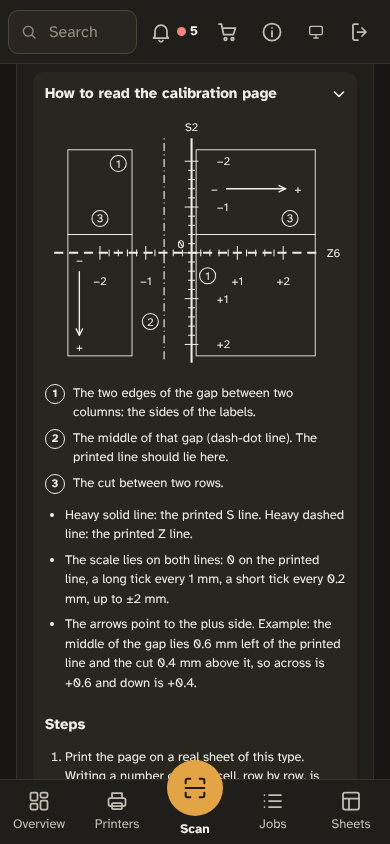
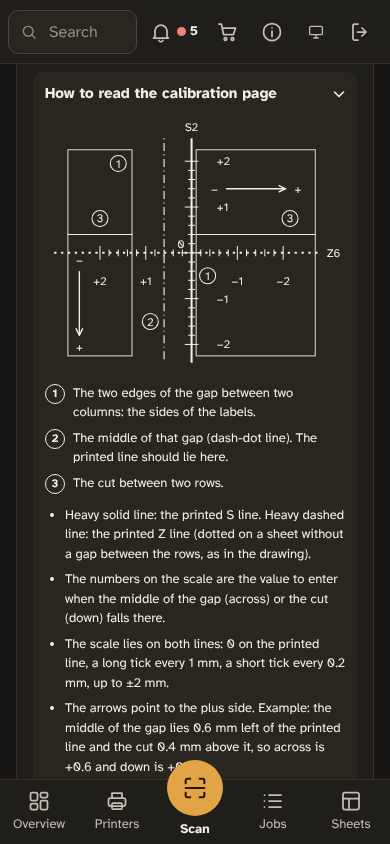
fix(calibration): the reading guide's scale shows the value to enter
The scale labels now show the value to enter (printed = nominal + reading in
fit.py): left of 0 and above 0 are plus. The Z line is dotted like the printed
page of a sheet without a row gap, the steps follow what the page offers for
two-column or two-row types, and the unused id is gone.

Refs #337

Changed region(s): [[0.1231, 0.6161, 0.8923, 0.9242]]

diff --git a/frontend/src/features/calibration/guide/ReadingGuide.test.tsx b/frontend/src/features/calibration/guide/ReadingGuide.test.tsx
@@ -7,6 +7,7 @@ import userEvent from "@testing-library/user-event";
 import { beforeAll, describe, expect, it } from "vitest";
 import { i18n, initI18n } from "../../../i18n";
 import { GEOMETRY_L4736 } from "../../test-api";
+import { CrossingFigure } from "./CrossingFigure";
 import { ReadingGuide } from "./ReadingGuide";
 
 const TYPE = { geometry: { ...GEOMETRY_L4736, cols: 4, rows: 12 }, label: "Avery L4736REV (4736)" };
@@ -126,3 +127,67 @@ describe("the reading guide", () => {
     for (const id of figureIds) expect(id).toMatch(/^[A-Za-z0-9_-]+$/);
   });
 });
+
+// The scale labels are the value to enter, not the position on the scale. The fit takes printed = nominal +
+// reading (backend/app/calibration/fit.py), so a reading is positive when the ink lies right of the gap
+// middle / below the cut, i.e. when the gap middle lies LEFT of / the cut ABOVE the printed line, which is
+// the centre of the scale at (120, 100), 40 units per mm.
+describe("the crossing figure's scale labels are the value to enter", () => {
+  const num = (text: string) => Number(text.replace("−", "-"));
+  const labels = (container: Element) => [...container.querySelectorAll("text")].map((t) => ({ text: t.textContent ?? "", x: Number(t.getAttribute("x")), y: Number(t.getAttribute("y")) }));
+
+  it("the figure's label at the gap middle is the value to enter", () => {
+    const { container } = render(<CrossingFigure />);
+    const gapMiddleX = Number(container.querySelector('line[stroke-dasharray="1 3 7 3"]')!.getAttribute("x1"));
+    const cutY = Number(container.querySelectorAll("rect")[0]!.getAttribute("y")) + Number(container.querySelectorAll("rect")[0]!.getAttribute("height"));
+    // The example of the legend: across +0.6, down +0.4.
+    expect((120 - gapMiddleX) / 40).toBeCloseTo(0.6);
+    expect((100 - cutY) / 40).toBeCloseTo(0.4);
+    // The across scale labels sit under the Z line (y 128); the label nearest the gap middle is +1, on the left.
+    const across = labels(container).filter((l) => l.y === 128);
+    const nearest = across.reduce((a, b) => (Math.abs(a.x - gapMiddleX) < Math.abs(b.x - gapMiddleX) ? a : b));
+    expect(nearest.text).toBe("+1");
+    expect(nearest.x).toBeLessThan(120);
+  });
+
+  it("a label left of 0 is positive and one right of 0 negative; above 0 positive, below negative", () => {
+    const { container } = render(<CrossingFigure />);
+    const all = labels(container);
+    const across = all.filter((l) => l.y === 128);
+    const down = all.filter((l) => l.x === 142 && /^[+−][12]$/.test(l.text));
+    expect(across).toHaveLength(4);
+    expect(down).toHaveLength(4);
+    // value to enter = - position on the scale (the position is the offset of the gap middle from the printed line).
+    for (const l of across) expect(num(l.text)).toBe(-(l.x - 120) / 40);
+    for (const l of down) expect(num(l.text)).toBe(-(l.y - 3.5 - 100) / 40);
+  });
+
+  it("the legend says the numbers are the value to enter", async () => {
+    show();
+    await open();
+    expect(screen.getByText(/The numbers on the scale are the value to enter/)).toBeVisible();
+  });
+});
+
+describe("the guide follows what the page offers", () => {
+  it("on a 4 × 12 type: five crossings and the fit step", async () => {
+    show();
+    await open();
+    expect(screen.getByText(/Read at least the four outer crossings and the one in the centre/)).toBeInTheDocument();
+    expect(screen.getByText(/press Fit/)).toBeInTheDocument();
+    expect(screen.queryByText(/cannot be fitted/)).toBeNull();
+  });
+
+  it.each([
+    ["2 columns", 2, 12],
+    ["2 rows", 4, 2],
+  ])("on a type with %s: no Fit step, the values are entered directly", async (_name, cols, rows) => {
+    show({ type: { geometry: { ...GEOMETRY_L4736, cols, rows }, label: "Avery L4736REV (4736)" } });
+    await open();
+    expect(screen.queryByText(/four outer crossings and the one in the centre/)).toBeNull();
+    expect(screen.queryByText(/press Fit/)).toBeNull();
+    expect(screen.getByText(/Read the crossings marked in the drawing/)).toBeInTheDocument();
+    expect(screen.getByText(/all crossings lie on one line, so the readings cannot be fitted/)).toBeInTheDocument();
+  });
+});
+

diff --git a/frontend/src/features/calibration/guide/ReadingGuide.tsx b/frontend/src/features/calibration/guide/ReadingGuide.tsx
@@ -36,6 +36,8 @@ export function ReadingGuide({ type }: { type?: { geometry: { cols: number; rows
   const typeName = type?.label ?? "";
   const outer = geometry ? suggestedCrossings(geometry.cols, geometry.rows) : [];
   const centre = geometry ? centreCrossing(geometry.cols, geometry.rows) : null;
+  // The readings helper is offered only when the crossings do not all lie on one line (ReadingsHelper).
+  const fits = !geometry || (geometry.cols > 2 && geometry.rows > 2);
   const isOuter = (c: { col_gap: number; row_gap: number }) => outer.some((o) => o.col_gap === c.col_gap && o.row_gap === c.row_gap);
 
   return (
@@ -67,7 +69,8 @@ export function ReadingGuide({ type }: { type?: { geometry: { cols: number; rows
                   <li>{t`The cut between two rows.`}</li>
                 </ol>
                 <ul aria-label={t`Lines, scale and arrows`} className="m-0 flex list-disc flex-col gap-1.5 pl-5">
-                  <li>{t`Heavy solid line: the printed S line. Heavy dashed line: the printed Z line.`}</li>
+                  <li>{t`Heavy solid line: the printed S line. Heavy dashed line: the printed Z line (dotted on a sheet without a gap between the rows, as in the drawing).`}</li>
+                  <li>{t`The numbers on the scale are the value to enter when the middle of the gap (across) or the cut (down) falls there.`}</li>
                   <li>{t`The scale lies on both lines: 0 on the printed line, a long tick every 1 mm, a short tick every 0.2 mm, up to ±2 mm.`}</li>
                   <li>{t`The arrows point to the plus side. Example: the middle of the gap lies 0.6 mm left of the printed line and the cut 0.4 mm above it, so across is +0.6 and down is +0.4.`}</li>
                 </ul>
@@ -79,7 +82,7 @@ export function ReadingGuide({ type }: { type?: { geometry: { cols: number; rows
           <ol aria-labelledby={stepsId} className="m-0 -mt-2 flex list-decimal flex-col gap-3 pl-5">
             <li>{t`Print the page on a real sheet of this type. Writing a number on each cell, row by row, is optional; it helps when you take photos.`}</li>
             <li className="flex flex-col gap-3">
-              <span>{t`Read at least the four outer crossings and the one in the centre.`}</span>
+              <span>{fits ? t`Read at least the four outer crossings and the one in the centre.` : t`Read the crossings marked in the drawing.`}</span>
               {geometry && (
                 <Block
                   figure={<SheetCrossingsFigure cols={geometry.cols} rows={geometry.rows} title={t`The crossings to read on ${typeName}`} />}
@@ -104,7 +107,11 @@ export function ReadingGuide({ type }: { type?: { geometry: { cols: number; rows
               <span>{t`+ down = the ink lies below the cut, − down = above it.`}</span>
             </li>
             <li>{t`If the sheet has no gap between the rows, the Z line sits on the cut. Peel off every other label (checkerboard) only if the cut is hard to see.`}</li>
-            <li>{t`Enter the readings below, choose the crossing for each, and press Fit. Check the filled-in values, then save them.`}</li>
+            <li>
+              {fits
+                ? t`Enter the readings below, choose the crossing for each, and press Fit. Check the filled-in values, then save them.`
+                : t`On this sheet all crossings lie on one line, so the readings cannot be fitted. Enter the values directly in the form below, then save them.`}
+            </li>
             <li>{t`Print the check page in step 3. If every crossing is within ±0.5 mm, you are done; if not, measure again.`}</li>
             <li>{t`Printer or sheet type? Deviations that grow evenly across the page (offset, scale, rotation) come from the printer; the fit corrects them. A jump between neighbouring gaps comes from the geometry of the sheet type: correct the sheet type first, then calibrate.`}</li>
           </ol>

diff --git a/frontend/src/features/calibration/guide/CrossingFigure.tsx b/frontend/src/features/calibration/guide/CrossingFigure.tsx
@@ -12,6 +12,11 @@ import { useId } from "react";
  * the printed Z line, so the ink lies 0.6 mm right of the gap middle (across +0.6) and 0.4 mm below the
  * cut (down +0.4). 1 mm is 40 units; the scale is centred on the crossing at (120, 100).
  *
+ * The numbers on the scale are the value to enter (the fit adds a reading to the nominal crossing: printed =
+ * nominal + reading), not the position on the scale: where the gap middle falls left of 0 the ink lies right
+ * of it, so the left side is + and the right side −; likewise the top is + and the bottom −. The Z line is
+ * dotted because the drawn sheet has no gap between its rows, as the printed page does.
+ *
  * Without `title` the drawing has no role and no name: the website page sets its own, localised ones.
  */
 export function CrossingFigure({ title, idPrefix }: { title?: string; idPrefix?: string }) {
@@ -42,7 +47,7 @@ export function CrossingFigure({ title, idPrefix }: { title?: string; idPrefix?:
 
       {/* The printed lines: S solid, Z dashed. */}
       <line x1="120" x2="120" y1="0" y2="196" stroke="currentColor" strokeWidth="1.8" />
-      <line x1="0" x2="232" y1="100" y2="100" stroke="currentColor" strokeWidth="1.8" strokeDasharray="8 5" />
+      <line x1="0" x2="232" y1="100" y2="100" stroke="currentColor" strokeWidth="1.8" strokeDasharray="2 4" />
 
       {/* The scale: ±2 mm, a tick every 0.2 mm, a longer one every 1 mm, the longest at 0. */}
       <g stroke="currentColor" strokeWidth="0.9">
@@ -84,14 +89,14 @@ export function CrossingFigure({ title, idPrefix }: { title?: string; idPrefix?:
         <text x="84" y="163.5">2</text>
         <text x="40" y="73.5">3</text>
         <text x="206" y="73.5">3</text>
-        <text x="40" y="128">−2</text>
-        <text x="80" y="128">−1</text>
-        <text x="160" y="128">+1</text>
-        <text x="200" y="128">+2</text>
-        <text x="142" y="23.5" textAnchor="start">−2</text>
-        <text x="142" y="63.5" textAnchor="start">−1</text>
-        <text x="142" y="143.5" textAnchor="start">+1</text>
-        <text x="142" y="183.5" textAnchor="start">+2</text>
+        <text x="40" y="128">+2</text>
+        <text x="80" y="128">+1</text>
+        <text x="160" y="128">−1</text>
+        <text x="200" y="128">−2</text>
+        <text x="142" y="23.5" textAnchor="start">+2</text>
+        <text x="142" y="63.5" textAnchor="start">+1</text>
+        <text x="142" y="143.5" textAnchor="start">−1</text>
+        <text x="142" y="183.5" textAnchor="start">−2</text>
         <text x="114" y="96" textAnchor="end">0</text>
         <text x="140" y="48">−</text>
         <text x="213" y="48">+</text>

diff --git a/frontend/src/features/calibration/guide/SheetCrossingsFigure.tsx b/frontend/src/features/calibration/guide/SheetCrossingsFigure.tsx
@@ -1,7 +1,6 @@
 // SPDX-FileCopyrightText: 2026 Björn Strausmann and Labelyard contributors
 // SPDX-License-Identifier: AGPL-3.0-or-later
 
-import { useId } from "react";
 import { crossingsToRead } from "../model";
 
 // The page is drawn on a 200 × 280 sheet; the grid takes the middle of it. Cells are not to scale:
@@ -13,9 +12,7 @@ const GRID = { x: 34, y: 30, w: 144, h: 232 };
  * numbered 1, 2, 3 … in the order of the list next to it. Black only (`currentColor`), digits and S/Z
  * numbers as the only text. Without `title` the drawing has no role and no name (the website export).
  */
-export function SheetCrossingsFigure({ cols, rows, title, idPrefix }: { cols: number; rows: number; title?: string; idPrefix?: string }) {
-  const generated = useId().replace(/[^A-Za-z0-9_-]/g, "");
-  const prefix = idPrefix ?? `sheet-${generated}`;
+export function SheetCrossingsFigure({ cols, rows, title }: { cols: number; rows: number; title?: string; /** Accepted for symmetry with CrossingFigure; this drawing has no ids. */ idPrefix?: string }) {
   const picks = crossingsToRead(cols, rows);
   const cw = GRID.w / cols;
   const ch = GRID.h / rows;
@@ -26,7 +23,7 @@ export function SheetCrossingsFigure({ cols, rows, title, idPrefix }: { cols: nu
 
   return (
     <svg xmlns="http://www.w3.org/2000/svg" viewBox="0 0 200 280" {...a11y}>
-      <rect id={`${prefix}-page`} x="2" y="2" width="196" height="276" fill="none" stroke="currentColor" strokeWidth="1" />
+      <rect x="2" y="2" width="196" height="276" fill="none" stroke="currentColor" strokeWidth="1" />
       <g fill="none" stroke="currentColor" strokeWidth="0.5">
         {cells.map(({ c, r }) => (
           <rect key={`${c}-${r}`} x={GRID.x + c * cw + 0.75} y={GRID.y + r * ch + 0.75} width={cw - 1.5} height={ch - 1.5} />
